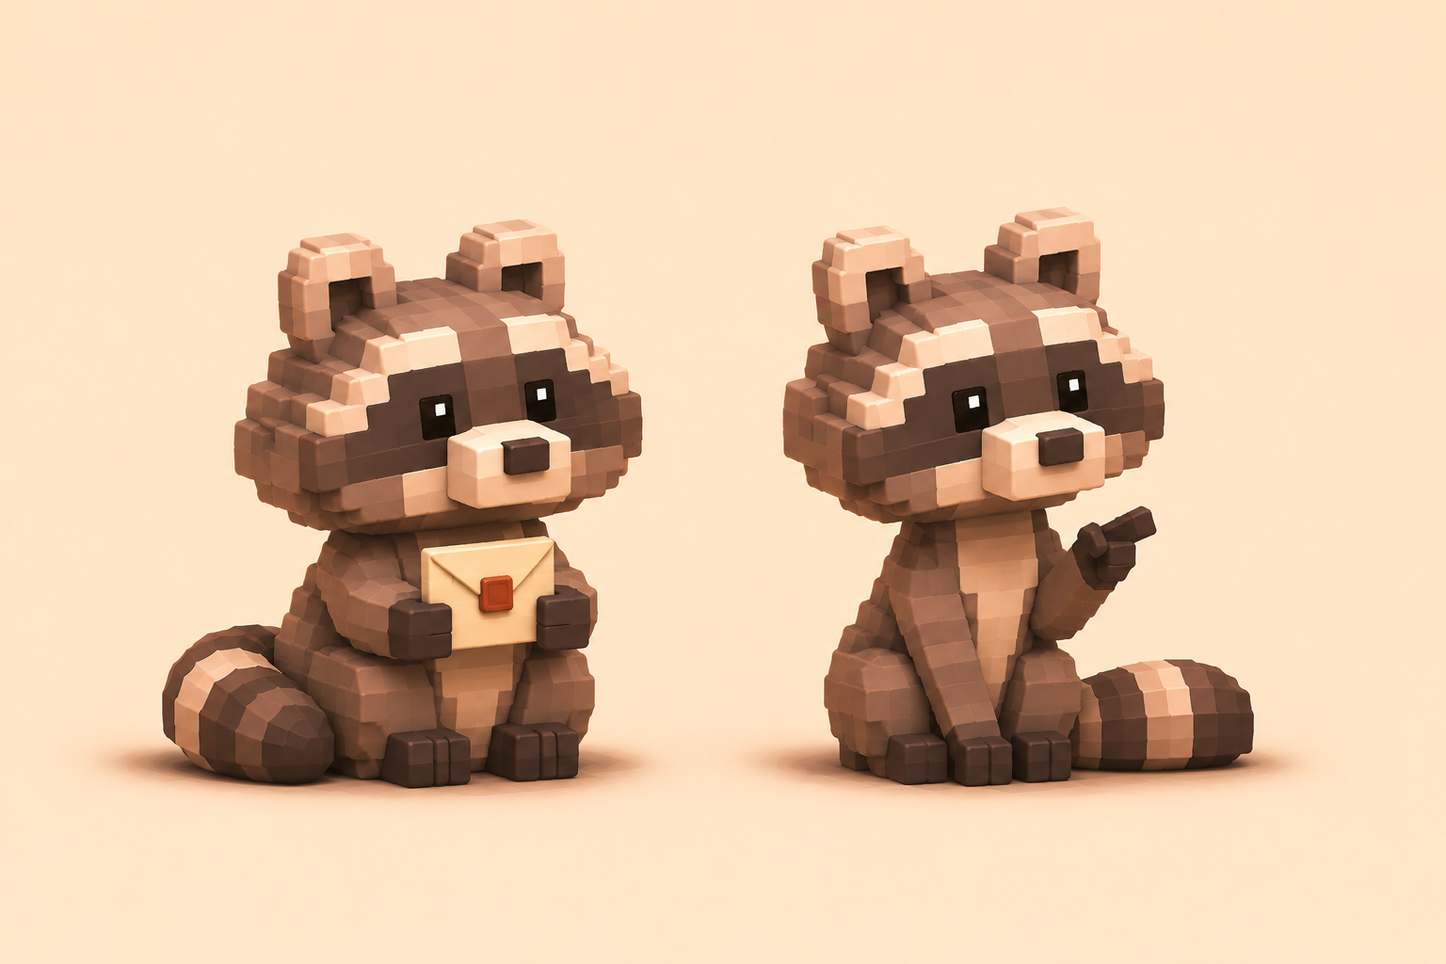
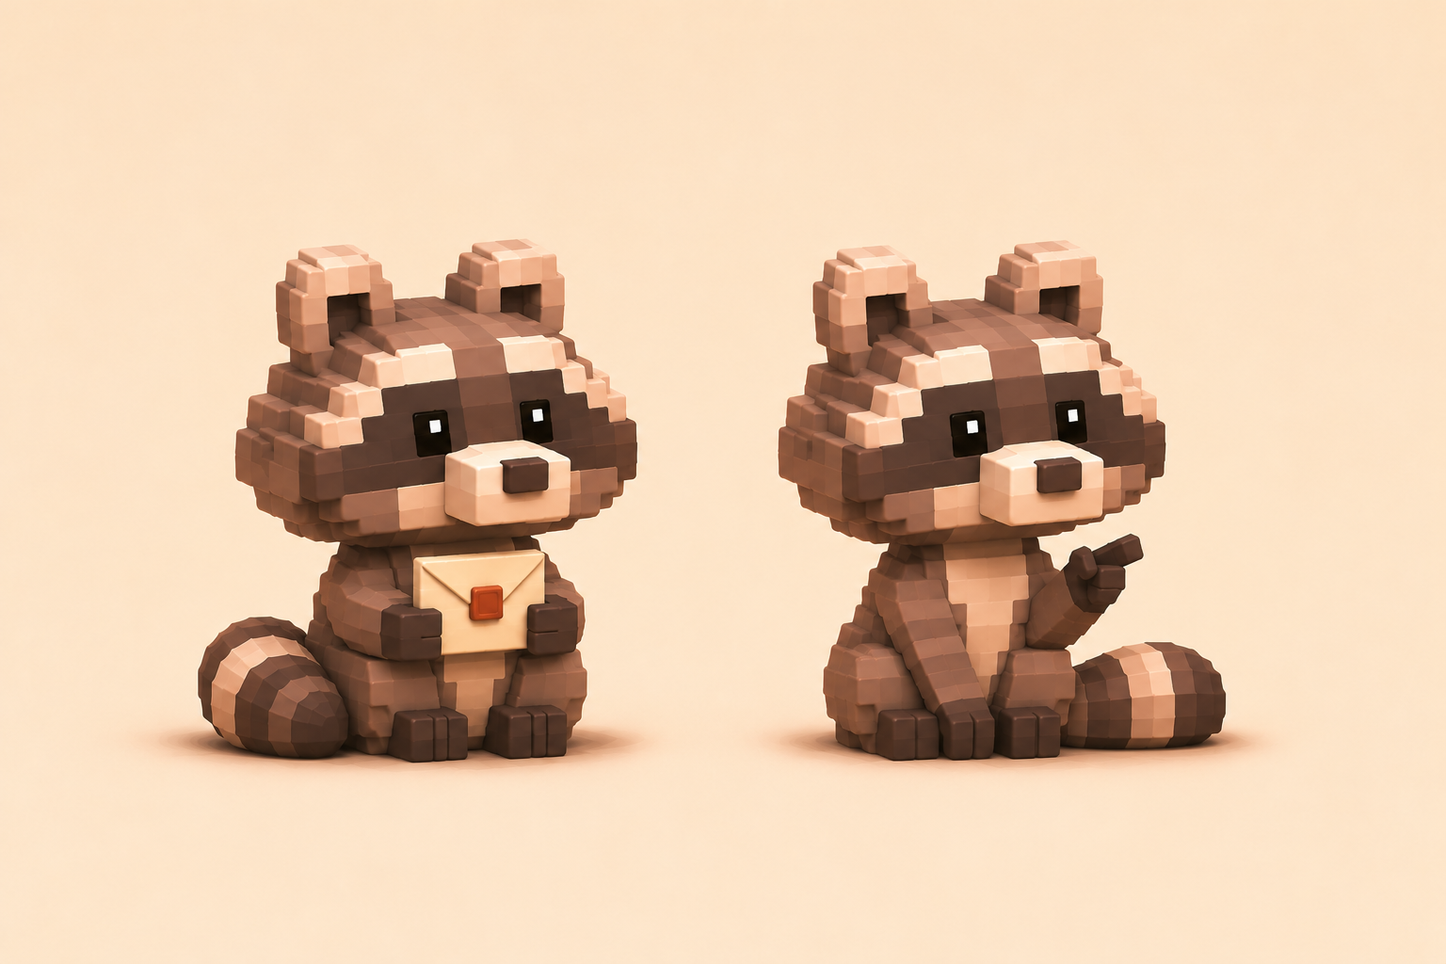
docs(homepage): balance Raccoon review proportions

Changed region(s): [[0.0625, 0.2188, 0.4688, 0.8438], [0.5, 0.2188, 0.9062, 0.8438]]

diff --git a/Docs/design/homepage/stage-2-spatial-concepts/asset-change-specification.md b/Docs/design/homepage/stage-2-spatial-concepts/asset-change-specification.md
@@ -27,25 +27,25 @@ separate portrait camera composition, not a crop of desktop.
 
 ## KEEP / MODIFY / CREATE / REMOVE
 
-| Action     | Asset / responsibility                                                                        | Stage 3 direction                                                                                                                                                                                                                                                                                                                                                                                                                                                                                         |
-| ---------- | --------------------------------------------------------------------------------------------- | --------------------------------------------------------------------------------------------------------------------------------------------------------------------------------------------------------------------------------------------------------------------------------------------------------------------------------------------------------------------------------------------------------------------------------------------------------------------------------------------------------- |
-| **KEEP**   | Approved room composition                                                                     | Preserve the octagonal floor and wall silhouette, central recess, adjacent board, right-side fireplace, and open floor area. Geometry refinements must be reviewed against the selected image and user's 3D notes.                                                                                                                                                                                                                                                                                        |
-| **KEEP**   | Four theme identity                                                                           | Use the same geometry for `craft`, `light`, `raccoon`, and `dark`; change materials, illumination, and ambience only. The 2×2 comparison is a visual direction, not a new asset pack.                                                                                                                                                                                                                                                                                                                     |
-| **MODIFY** | Twin Raccoon source prototypes                                                                | The existing GLBs and activity preview are exploratory prototypes only; their tall cuboid bodies do not match the chosen Raccoon references. Re-author or replace them in Stage 3 from the approved shape direction. Preserve the preferred shared head design, keep compact seated bodies, and distinguish the pair through modest torso contour, ear/tail silhouette, and role pose. Do not integrate these prototypes as final art.                                                                    |
-| **MODIFY** | Existing assembled room in `Frontend/source-assets/homepage/models/laundromat/Laundromat.glb` | Do not scale its square/two-wall stage to fake the selected plan. Re-author or restructure the room shell to the octagonal plan and thick rear wall. Reuse detachable washer, board, window, lantern, planter, shelf, and material work only where each piece fits the selected geometry without distortion.                                                                                                                                                                                              |
-| **MODIFY** | Washer and wall opening                                                                       | Enlarge the washer slightly relative to the earlier square-room preview, but make the washer fit inside a deep wall niche. Starting target: washer body width 0.28–0.32 of room floor width; niche opening width 1.15–1.25× washer width and depth at least 0.45× washer body depth. Keep its face clear and readable.                                                                                                                                                                                    |
-| **MODIFY** | Board mounting and project UI                                                                 | Mount the board surface to the left rear facet, aligned with that wall plane. Keep its right edge close to the recess (initial gap 0.02–0.06 room widths). Create a flat DOM overlay within the projected board bounds. Angular owns Search, Sort, Add Project, vertical note list, selected full-detail state, and statuses. The scroll container must not pass wheel/touch events to camera controls.                                                                                                   |
-| **MODIFY** | Fireplace                                                                                     | Keep it on the right return wall. Align its face to that wall plane. Preserve a visibly open fire aperture and masonry surround; do not place a timber lintel, cabinet, or shelf across the opening. Keep safe visual clearance above the fire.                                                                                                                                                                                                                                                           |
-| **MODIFY** | Washer contextual UI                                                                          | Anchor the real revision preview in the washer door/glass. Place distinct semantic Open and Delete buttons next to washer controls, outside the preview. Do not put these actions on the board note. The preview uses `openPreview(projectId, expectedUpdatedAt)`; missing/stale data shows real project facts and a clear no-preview state.                                                                                                                                                              |
-| **MODIFY** | Raccoon identities and motion                                                                 | Place Courier near the board and Washer Guide near the washer. Use the preferred shared head design from `raccoon-pair-look-review.png`. Keep both characters low, seated, short-bodied, and close in height and mass. Give Courier a folded seated pose, note prop, and tail tucked near one haunch; give Guide a modest gesture, slightly slimmer torso contour, and tail sweeping the opposite way. Keep the tail moderate in size. The current GLB preview is a mismatch reference, not approved art. |
-| **CREATE** | Octagonal room shell                                                                          | Build an eight-sided floor platform with a softened block-step outer rim and a visibly open front. Make the back wall read as a substantial wall volume, with the washer recess carved into it. Avoid a perfect square base or two unjoined perpendicular wall slabs.                                                                                                                                                                                                                                     |
-| **CREATE** | Fireplace asset / anchor                                                                      | Author a right-facet fireplace with masonry surround, visible aperture, fire/light anchor, and enough clearance from overhead beams. Keep a single reusable fireplace asset across themes.                                                                                                                                                                                                                                                                                                                |
-| **CREATE** | Two-character placement and waypoint set                                                      | Add distinct idle, board-side, washer-side, and safe arrival anchors. Route both Raccoons along short floor paths that avoid the board, washer action anchors, fireplace aperture, platform edge, and each other.                                                                                                                                                                                                                                                                                         |
-| **CREATE** | Spatial camera anchors                                                                        | Add `overview`, `board`, `washer`, and `recenter` poses/targets. Resolve their bounds against portrait and landscape aspect ratios so board and washer are visible together in overview.                                                                                                                                                                                                                                                                                                                  |
-| **CREATE** | DOM overlay anchors                                                                           | Expose stable anchors for board viewport, washer preview glass, washer Open/Delete, and Courier note affordance. DOM text remains localized and accessible. Keep semantic controls even when the camera is focused or WebGL has failed.                                                                                                                                                                                                                                                                   |
-| **REMOVE** | Superseded room look-dev variants                                                             | Old unselected square room concepts, previous theme boards, and rejected Raccoon turnaround images were removed per the user's cleanup direction. They are not Stage 3 inputs.                                                                                                                                                                                                                                                                                                                            |
-| **REMOVE** | Single in-room Raccoon instance in the assembled GLB                                          | Once the twin GLBs pass visual and runtime regression review, remove the old duplicate character from the rebuilt room. Retain only one authoritative pair; do not render both the old embedded Raccoon and both new characters.                                                                                                                                                                                                                                                                          |
-| **REMOVE** | Baked or sample project data                                                                  | Do not bake generated example names/details/thumbs into the board or scene textures. Empty/loading/error and actual-project content come from Angular-owned DOM state.                                                                                                                                                                                                                                                                                                                                    |
+| Action     | Asset / responsibility                                                                        | Stage 3 direction                                                                                                                                                                                                                                                                                                                                                                                                                                                                                                                       |
+| ---------- | --------------------------------------------------------------------------------------------- | --------------------------------------------------------------------------------------------------------------------------------------------------------------------------------------------------------------------------------------------------------------------------------------------------------------------------------------------------------------------------------------------------------------------------------------------------------------------------------------------------------------------------------------- |
+| **KEEP**   | Approved room composition                                                                     | Preserve the octagonal floor and wall silhouette, central recess, adjacent board, right-side fireplace, and open floor area. Geometry refinements must be reviewed against the selected image and user's 3D notes.                                                                                                                                                                                                                                                                                                                      |
+| **KEEP**   | Four theme identity                                                                           | Use the same geometry for `craft`, `light`, `raccoon`, and `dark`; change materials, illumination, and ambience only. The 2×2 comparison is a visual direction, not a new asset pack.                                                                                                                                                                                                                                                                                                                                                   |
+| **MODIFY** | Twin Raccoon source prototypes                                                                | The existing GLBs and activity preview are exploratory prototypes only; their tall cuboid bodies do not match the chosen Raccoon references. Re-author or replace them in Stage 3 from the approved shape direction. Preserve the preferred shared head design, keep compact seated bodies, and distinguish the pair through modest torso contour, ear/tail silhouette, and role pose. Do not integrate these prototypes as final art.                                                                                                  |
+| **MODIFY** | Existing assembled room in `Frontend/source-assets/homepage/models/laundromat/Laundromat.glb` | Do not scale its square/two-wall stage to fake the selected plan. Re-author or restructure the room shell to the octagonal plan and thick rear wall. Reuse detachable washer, board, window, lantern, planter, shelf, and material work only where each piece fits the selected geometry without distortion.                                                                                                                                                                                                                            |
+| **MODIFY** | Washer and wall opening                                                                       | Enlarge the washer slightly relative to the earlier square-room preview, but make the washer fit inside a deep wall niche. Starting target: washer body width 0.28–0.32 of room floor width; niche opening width 1.15–1.25× washer width and depth at least 0.45× washer body depth. Keep its face clear and readable.                                                                                                                                                                                                                  |
+| **MODIFY** | Board mounting and project UI                                                                 | Mount the board surface to the left rear facet, aligned with that wall plane. Keep its right edge close to the recess (initial gap 0.02–0.06 room widths). Create a flat DOM overlay within the projected board bounds. Angular owns Search, Sort, Add Project, vertical note list, selected full-detail state, and statuses. The scroll container must not pass wheel/touch events to camera controls.                                                                                                                                 |
+| **MODIFY** | Fireplace                                                                                     | Keep it on the right return wall. Align its face to that wall plane. Preserve a visibly open fire aperture and masonry surround; do not place a timber lintel, cabinet, or shelf across the opening. Keep safe visual clearance above the fire.                                                                                                                                                                                                                                                                                         |
+| **MODIFY** | Washer contextual UI                                                                          | Anchor the real revision preview in the washer door/glass. Place distinct semantic Open and Delete buttons next to washer controls, outside the preview. Do not put these actions on the board note. The preview uses `openPreview(projectId, expectedUpdatedAt)`; missing/stale data shows real project facts and a clear no-preview state.                                                                                                                                                                                            |
+| **MODIFY** | Raccoon identities and motion                                                                 | Place Courier near the board and Washer Guide near the washer. Use the preferred shared head design from `raccoon-pair-look-review.png`. Keep their seated height, torso width, hip width, limb thickness, and body mass balanced. Give Courier a folded seated pose, note prop, and tail tucked near one haunch; give Guide a modest gesture and tail sweeping the opposite way. Distinguish by role pose and tail direction, not by making one heavier or thinner. The current GLB preview is a mismatch reference, not approved art. |
+| **CREATE** | Octagonal room shell                                                                          | Build an eight-sided floor platform with a softened block-step outer rim and a visibly open front. Make the back wall read as a substantial wall volume, with the washer recess carved into it. Avoid a perfect square base or two unjoined perpendicular wall slabs.                                                                                                                                                                                                                                                                   |
+| **CREATE** | Fireplace asset / anchor                                                                      | Author a right-facet fireplace with masonry surround, visible aperture, fire/light anchor, and enough clearance from overhead beams. Keep a single reusable fireplace asset across themes.                                                                                                                                                                                                                                                                                                                                              |
+| **CREATE** | Two-character placement and waypoint set                                                      | Add distinct idle, board-side, washer-side, and safe arrival anchors. Route both Raccoons along short floor paths that avoid the board, washer action anchors, fireplace aperture, platform edge, and each other.                                                                                                                                                                                                                                                                                                                       |
+| **CREATE** | Spatial camera anchors                                                                        | Add `overview`, `board`, `washer`, and `recenter` poses/targets. Resolve their bounds against portrait and landscape aspect ratios so board and washer are visible together in overview.                                                                                                                                                                                                                                                                                                                                                |
+| **CREATE** | DOM overlay anchors                                                                           | Expose stable anchors for board viewport, washer preview glass, washer Open/Delete, and Courier note affordance. DOM text remains localized and accessible. Keep semantic controls even when the camera is focused or WebGL has failed.                                                                                                                                                                                                                                                                                                 |
+| **REMOVE** | Superseded room look-dev variants                                                             | Old unselected square room concepts, previous theme boards, and rejected Raccoon turnaround images were removed per the user's cleanup direction. They are not Stage 3 inputs.                                                                                                                                                                                                                                                                                                                                                          |
+| **REMOVE** | Single in-room Raccoon instance in the assembled GLB                                          | Once the twin GLBs pass visual and runtime regression review, remove the old duplicate character from the rebuilt room. Retain only one authoritative pair; do not render both the old embedded Raccoon and both new characters.                                                                                                                                                                                                                                                                                                        |
+| **REMOVE** | Baked or sample project data                                                                  | Do not bake generated example names/details/thumbs into the board or scene textures. Empty/loading/error and actual-project content come from Angular-owned DOM state.                                                                                                                                                                                                                                                                                                                                                                  |
 
 ## Relative placement contract
 
@@ -77,10 +77,10 @@ approved raster image.
   [`raccoon-pair-look-review.png`](./raccoon-pair-look-review.png). Keep each
   seated body compact, with short limbs and no elongated neck or torso. Give
   Courier a folded pose and low tail curl beside one haunch; give Guide a
-  slightly slimmer torso contour, small raised-paw gesture, and tail sweeping
-  along the opposite side. Keep overall height and mass close; do not make
-  either character tall, heavy, or oversized. These are visual targets, not
-  measured source geometry.
+  small raised-paw gesture and tail sweeping along the opposite side. Keep
+  torso and hip dimensions, overall height, and body mass balanced between
+  them. Do not make either character tall, heavy, thin, or oversized. These
+  are visual targets, not measured source geometry.
 
 ## Camera and visual anchors
 

diff --git a/Frontend/source-assets/homepage/models/raccoons/README.md b/Frontend/source-assets/homepage/models/raccoons/README.md
@@ -8,8 +8,9 @@ and exported as self-contained GLB files beside this document.
 bodies do not match the selected Raccoon references. The current proposed
 shape direction is documented in
 [`raccoon-pair-look-review.png`](../../../../../Docs/design/homepage/stage-2-spatial-concepts/raccoon-pair-look-review.png);
-it keeps the shared head design the user preferred and separates the roles
-through compact pose, torso contour, note prop, and moderate tail silhouettes.
+it keeps the shared head design the user preferred and balances both body
+proportions, separating the roles through pose, note prop, and moderate tail
+direction.
 No GLB or Blender model was changed for this Stage 2 review.
 
 | Asset        | Character distinction                                                                | Output                     |
